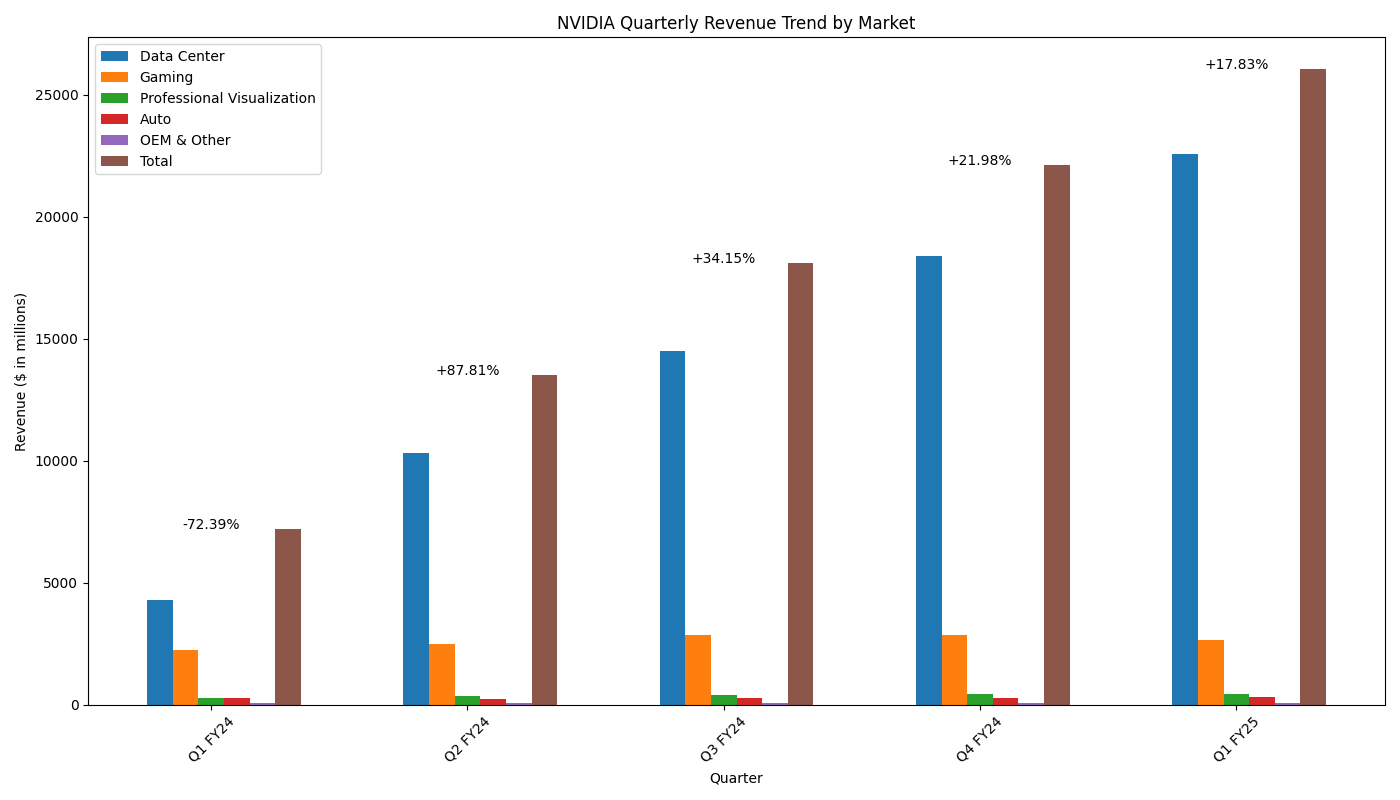
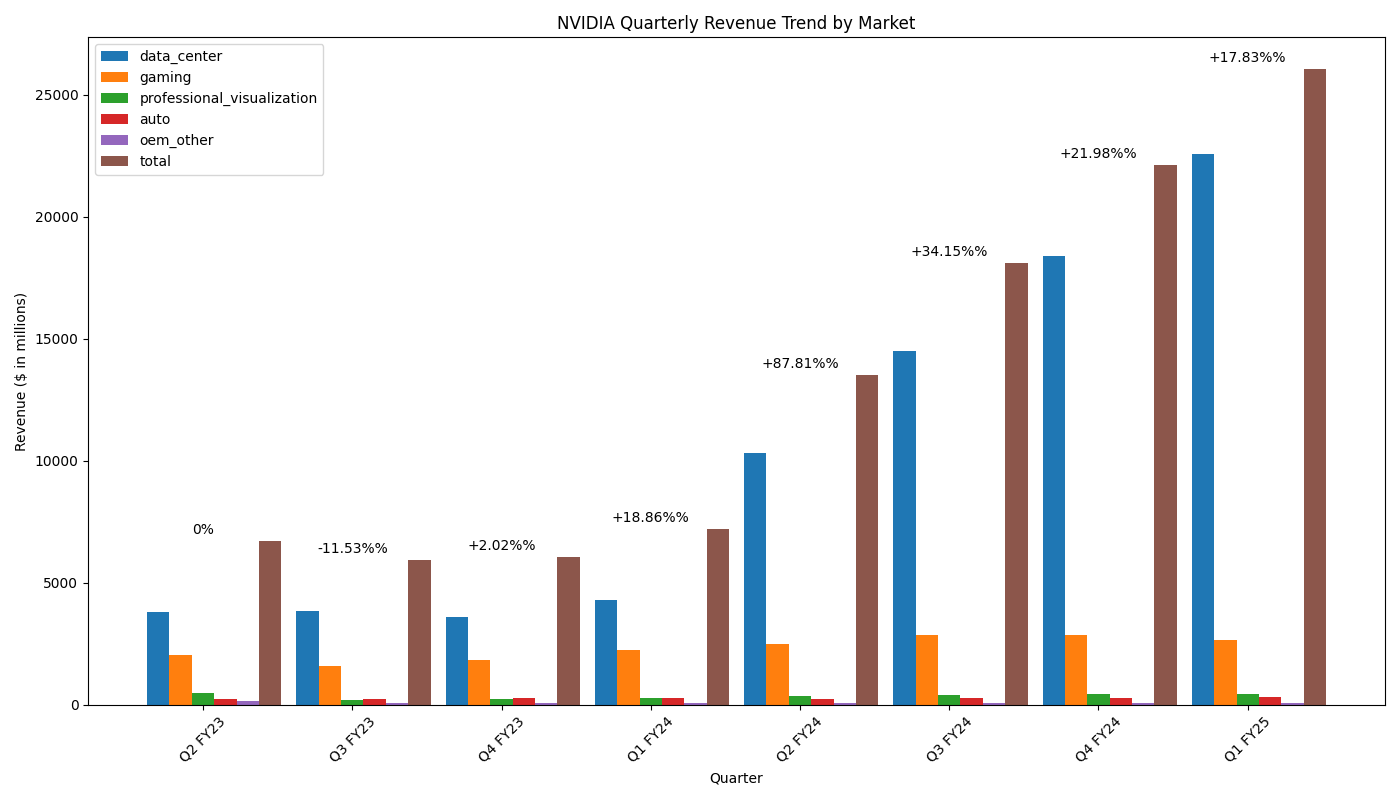
Add function to read PDF data

diff --git a/main.py b/main.py
@@ -1,43 +1,48 @@
 import matplotlib.pyplot as plt
 import numpy as np
 
+import read_pdf
 from utils.calculate_growth_rate import calculate_growth_rate
 from utils.replace_text import replace_text
 
-# Data
-quarters = ["Q1 FY24", "Q2 FY24", "Q3 FY24", "Q4 FY24", "Q1 FY25"]
-data_center = [4284, 10323, 14514, 18404, 22563]
-gaming = [2240, 2486, 2856, 2865, 2647]
-professional_visualization = [295, 379, 416, 463, 427]
-auto = [296, 253, 261, 281, 329]
-oem_other = [77, 66, 73, 90, 78]
-total = [7192, 13507, 18120, 22103, 26044]
+# Step 1: Extract data from the PDF
+data = read_pdf.extract_data_from_pdf('Rev_by_Mkt_Qtrly_Trend_Q125.pdf')
 
-# Calculate growth rates as percentages with + or -
-growth_rates = [calculate_growth_rate(total[i], total[i - 1]) for i in range(len(total))]
+# Step 2: Assign data to variables
+quarters = data['quarters']
+data_center = data['data_center']
+gaming = data['gaming']
+professional_visualization = data['professional_visualization']
+auto = data['auto']
+oem_other = data['oem_other']
+total = data['total']
 
-# Print growth rates
+# Step 3: Calculate growth rates as percentages with + or -
+growth_rates = [calculate_growth_rate(total[i], total[i - 1]) if i != 0 else 0 for i in range(len(total))]
+
+# Step 4: Print growth rates
 for quarter, rate in zip(quarters[1:], growth_rates[1:]):
-    print(f"{quarter}: {rate}")
+    print(f"{quarter}: {rate}%")
 
-# Plotting
+# Step 5: Plotting
 x = np.arange(len(quarters))  # the label locations
-width = 0.1  # the width of the bars
+width = 0.15  # the width of the bars
 bar_positions = [x - 2 * width, x - width, x, x + width, x + 2 * width, x + 3 * width]
-bar_labels = ['Data Center', 'Gaming', 'Professional Visualization', 'Auto', 'OEM & Other', 'Total']
+bar_labels = ['data_center', 'gaming', 'professional_visualization', 'auto', 'oem_other', 'total']
+bar_data = [data_center, gaming, professional_visualization, auto, oem_other, total]
 
 fig, ax = plt.subplots(figsize=(14, 8))
 
 rects = []
-for pos, label in zip(bar_positions, bar_labels):
-    rect = ax.bar(pos, eval(replace_text(label)), width, label=label)
+for pos, label, data in zip(bar_positions, bar_labels, bar_data):
+    rect = ax.bar(pos, data, width, label=replace_text(label))
     rects.append(rect)
 
-# Add growth rate annotations
+# Step 6: Add growth rate annotations
 for i, rate in enumerate(growth_rates):
-    ax.annotate(f'{rate}', (x[i], total[i]), textcoords="offset points", xytext=(0, 0), ha='center')
+    ax.annotate(f'{rate}%', (x[i], total[i]), textcoords="offset points", xytext=(0, 5), ha='center')
 
-# Add some text for labels, title and custom x-axis tick labels, etc.
+# Step 7: Add some text for labels, title, and custom x-axis tick labels, etc.
 ax.set_xlabel('Quarter')
 ax.set_ylabel('Revenue ($ in millions)')
 ax.set_title('NVIDIA Quarterly Revenue Trend by Market')
@@ -48,7 +53,7 @@ ax.legend()
 # Rotate the tick labels for better readability
 plt.xticks(rotation=45)
 
+# Step 8: Adjust layout and save the figure
 fig.tight_layout()
-
 plt.savefig('nvidia-revenue-trend.png')
 plt.show()

diff --git a/read_pdf.py b/read_pdf.py
@@ -1,0 +1,36 @@
+import pdfplumber
+
+from utils.replace_text import replace_text
+
+
+def extract_data_from_pdf(pdf_path):
+    data = {}
+
+    try:
+        with pdfplumber.open(pdf_path) as pdf:
+            # Assuming the relevant data is on the first page
+            page = pdf.pages[0]
+            table = page.extract_table()
+
+            if table:
+                # Extract quarters from the first row, skipping the first column header
+                quarters = table[0][1:]
+                data['quarters'] = quarters[::-1]
+
+                # Process the rest of the rows, skipping the first row (headers)
+                for row in table[1:]:
+                    if row:  # Ensure the row is not empty
+                        key = replace_text(row[0].lower())
+                        values = [int(item.replace('$', '').replace(',', '')) for item in row[1:] if item]
+                        data[key] = values[::-1]
+            else:
+                raise ValueError("No table found on the first page.")
+
+    except FileNotFoundError:
+        print(f"Error: The file '{pdf_path}' was not found.")
+    except ValueError as ve:
+        print(f"Error processing the PDF: {ve}")
+    except Exception as e:
+        print(f"An unexpected error occurred: {e}")
+
+    return data
